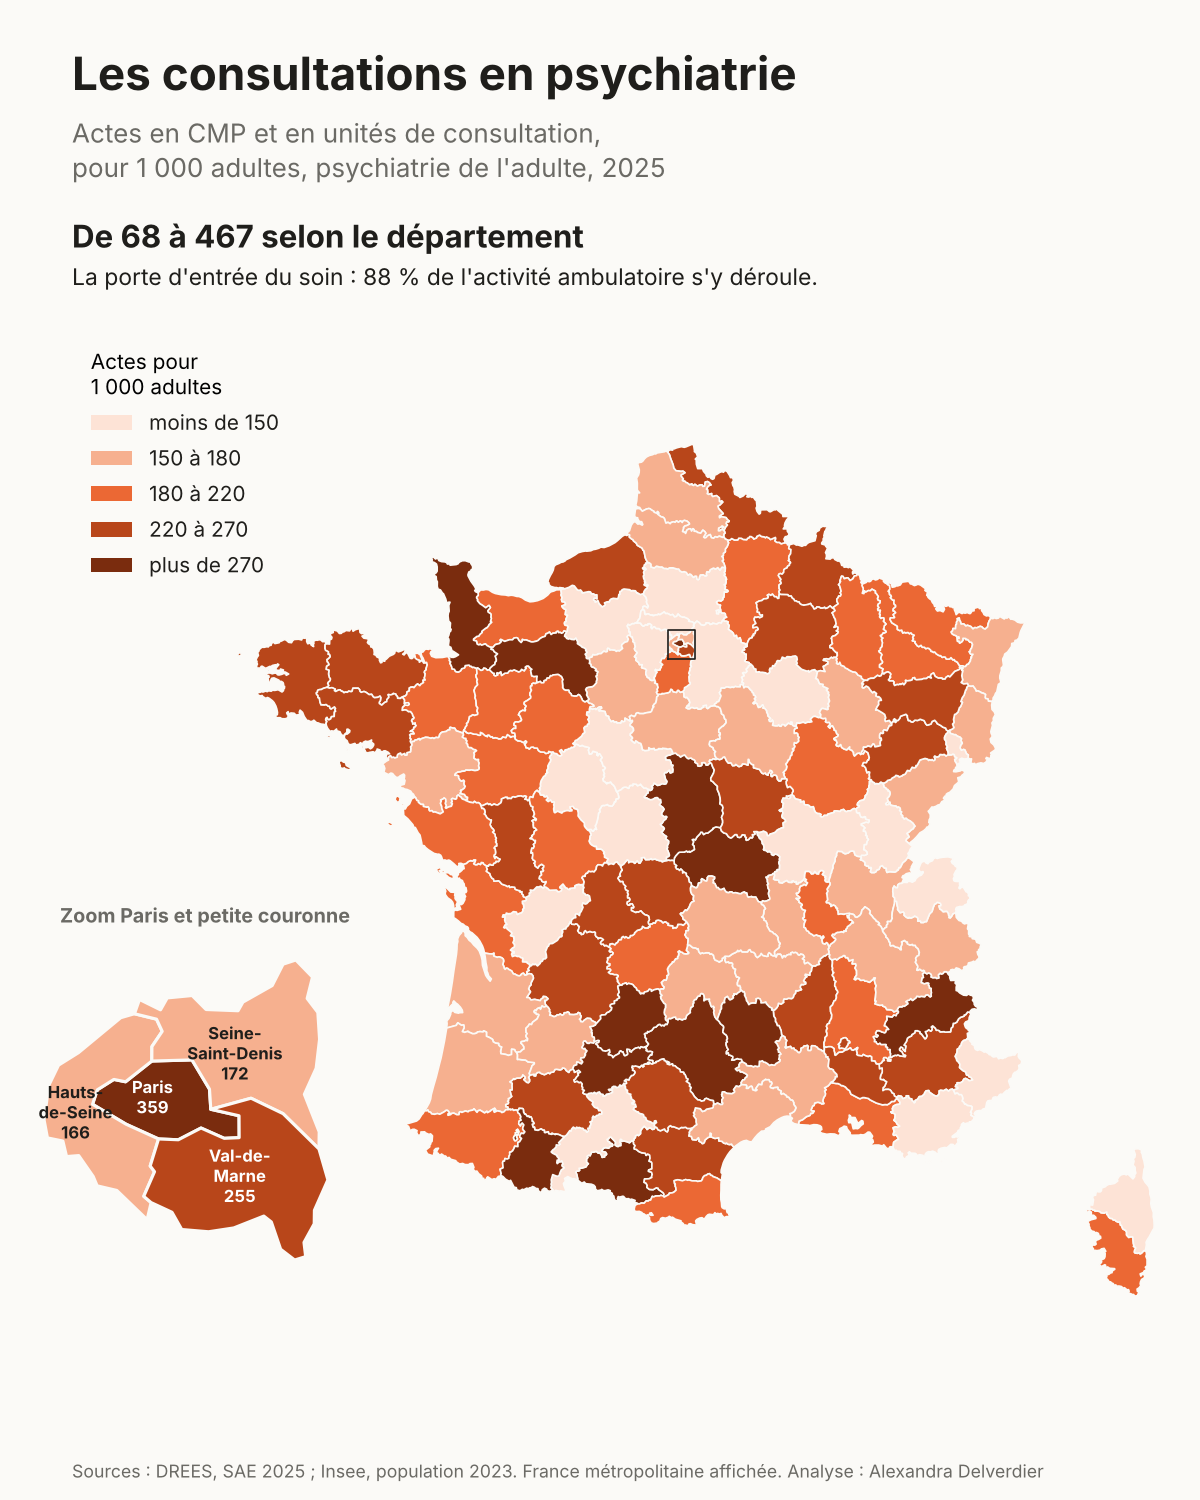
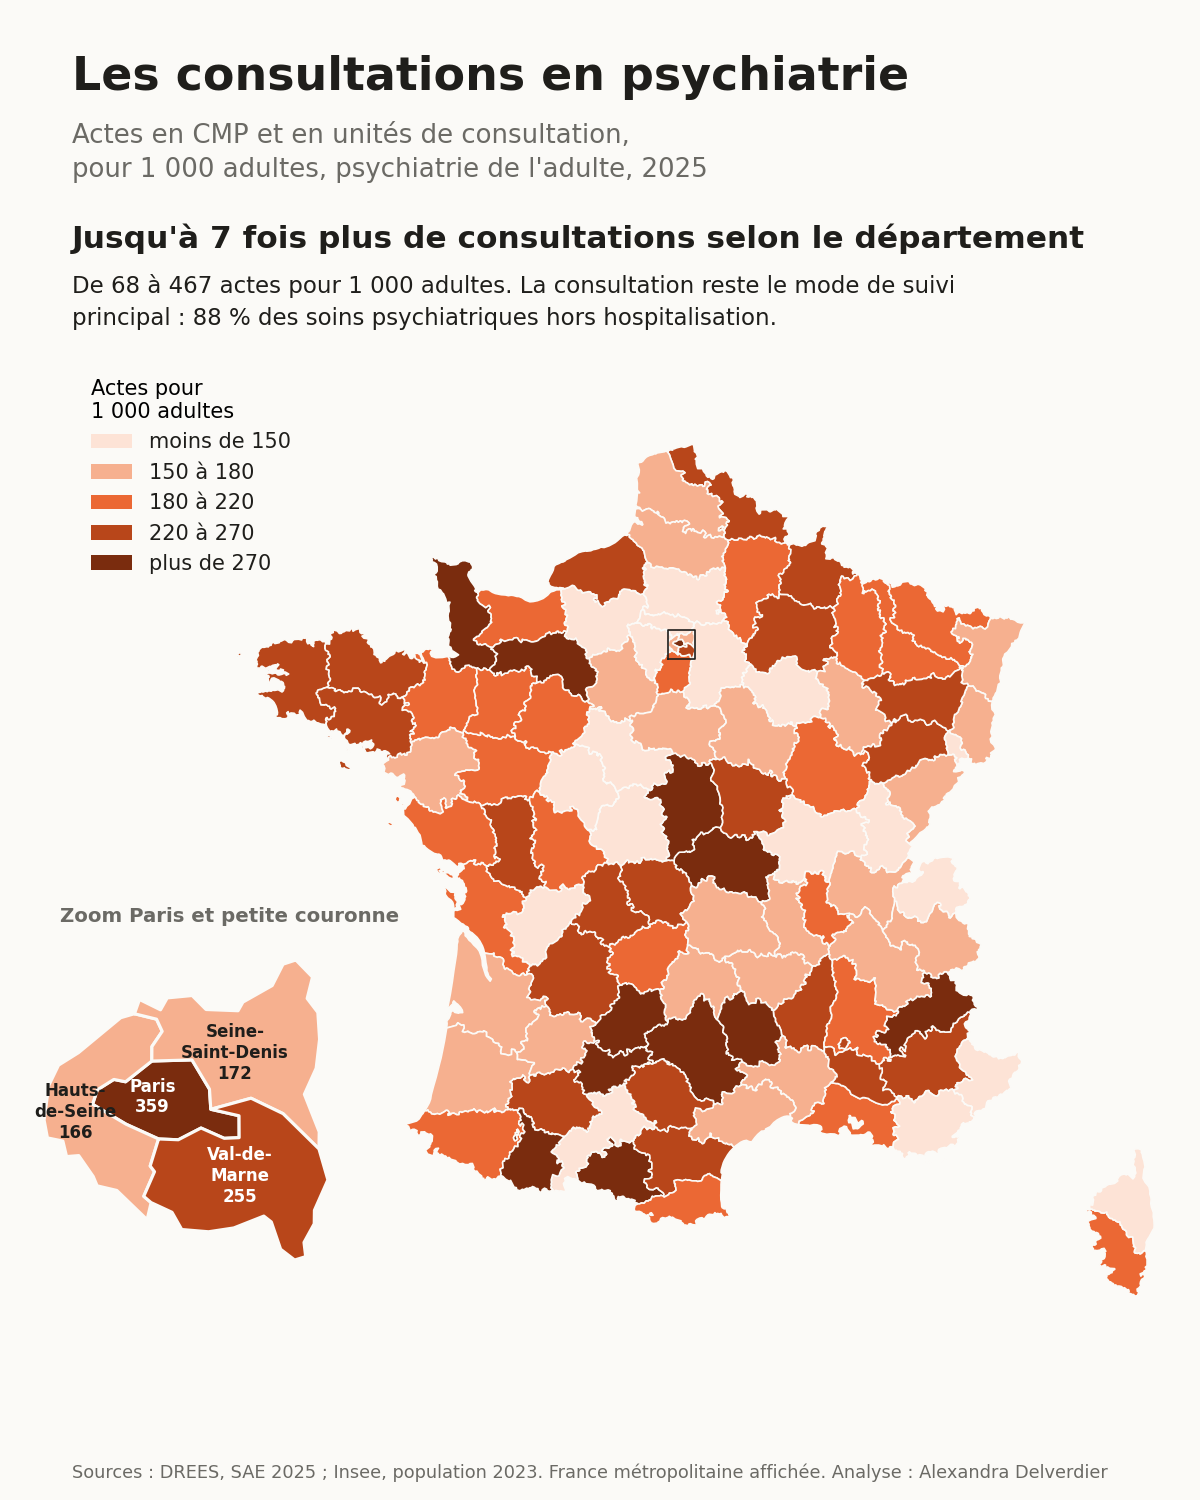
Recadrage de l'analyse : tests statistiques et code des cartes

diff --git a/analysis/cartes.py b/analysis/cartes.py
@@ -1,0 +1,105 @@
+"""Cartes de la psychiatrie hors les murs : consultations et suivi à domicile, par département."""
+import json
+import urllib.request
+from pathlib import Path
+
+import geopandas as gpd
+import matplotlib.pyplot as plt
+import pandas as pd
+from matplotlib.patches import Patch
+
+from data import load_mart, parser
+
+GEOJSON_URL = "https://raw.githubusercontent.com/gregoiredavid/france-geojson/master/departements-version-simplifiee.geojson"
+ROOT = Path(__file__).resolve().parent
+VISUELS = ROOT.parent / "visuels"
+INK, MUTED, BG = "#1f1e1b", "#6b6a65", "#fbfaf7"
+PETITE_COURONNE = {"75": "Paris", "92": "Hauts-\nde-Seine", "93": "Seine-\nSaint-Denis", "94": "Val-de-\nMarne"}
+
+CARTES = {
+    "consultations": dict(
+        colonne="actes_consultation_pour_1000",
+        fichier="carte_consultations.png",
+        bins=[0, 150, 180, 220, 270, 10_000],
+        labels=["moins de 150", "150 à 180", "180 à 220", "220 à 270", "plus de 270"],
+        ramp=["#fde3d6", "#f6b08f", "#eb6834", "#b8461a", "#7a2c0e"],
+        titre="Les consultations en psychiatrie",
+        sous_titre=["Actes en CMP et en unités de consultation,", "pour 1 000 adultes, psychiatrie de l'adulte, 2025"],
+        accroche="Jusqu'à 7 fois plus de consultations selon le département",
+        texte=["De 68 à 467 actes pour 1 000 adultes. La consultation reste le mode de suivi",
+               "principal : 88 % des soins psychiatriques hors hospitalisation."],
+    ),
+    "domicile": dict(
+        colonne="actes_domicile_pour_1000",
+        fichier="carte_soins_domicile.png",
+        bins=[0, 15, 25, 40, 60, 10_000],
+        labels=["moins de 15", "15 à 25", "25 à 40", "40 à 60", "plus de 60"],
+        ramp=["#cde2fb", "#86b6ef", "#3987e5", "#1c5cab", "#0d366b"],
+        titre="Le suivi psychiatrique à domicile",
+        sous_titre=["Actes des équipes de psychiatrie au domicile ou en lieu de vie,",
+                    "pour 1 000 adultes, psychiatrie de l'adulte, 2025"],
+        accroche="De 1 à 109 selon le département",
+        texte=["En France, seulement 12 % de l'activité ambulatoire se fait chez le patient."],
+    ),
+}
+
+
+def fond_de_carte():
+    cache = ROOT / ".cache" / "departements.geojson"
+    if not cache.exists():
+        cache.parent.mkdir(exist_ok=True)
+        urllib.request.urlretrieve(GEOJSON_URL, cache)
+    return gpd.read_file(cache)
+
+
+def dessiner(geo, mart, cfg):
+    g = geo.merge(mart[["code_insee", cfg["colonne"]]], left_on="code", right_on="code_insee", how="left").to_crs(2154)
+    g["v"] = g[cfg["colonne"]]
+    g["cls"] = pd.cut(g.v, cfg["bins"], labels=False, right=False)
+    g["col"] = g.cls.map(lambda c: cfg["ramp"][int(c)] if pd.notna(c) else "#e4e2dd")
+
+    fig = plt.figure(figsize=(8, 10), dpi=150, facecolor=BG)
+    ax = fig.add_axes([0.16, 0.06, 0.84, 0.72]); ax.set_axis_off()
+    g.plot(ax=ax, color=g.col, edgecolor=BG, linewidth=0.8)
+
+    fig.text(0.06, 0.94, cfg["titre"], fontsize=22, weight="bold", color=INK)
+    for k, ligne in enumerate(cfg["sous_titre"]):
+        fig.text(0.06, 0.905 - 0.023 * k, ligne, fontsize=12.5, color=MUTED)
+    fig.text(0.06, 0.835, cfg["accroche"], fontsize=15, weight="bold", color=INK)
+    for k, ligne in enumerate(cfg["texte"]):
+        fig.text(0.06, 0.805 - 0.022 * k, ligne, fontsize=11, color=INK)
+
+    legende = [Patch(facecolor=c, edgecolor="none", label=l) for c, l in zip(cfg["ramp"], cfg["labels"])]
+    ax.legend(handles=legende, loc="upper left", frameon=False, fontsize=10, labelcolor=INK,
+              title="Actes pour\n1 000 adultes", title_fontsize=10, alignment="left",
+              bbox_to_anchor=(0.06, 0.76), bbox_transform=fig.transFigure)
+
+    # zoom Paris et petite couronne, trop petits à l'échelle nationale
+    pc = g[g.code.isin(PETITE_COURONNE)]
+    ax2 = fig.add_axes([0.02, 0.15, 0.27, 0.22]); ax2.set_axis_off()
+    pc.plot(ax=ax2, color=pc.col, edgecolor=BG, linewidth=1.5)
+    for _, r in pc.iterrows():
+        p = r.geometry.representative_point()
+        ax2.annotate(f"{PETITE_COURONNE[r.code]}\n{r.v:.0f}", (p.x, p.y), ha="center", va="center", fontsize=8,
+                     color="white" if r.cls >= 3 else INK, weight="bold")
+    fig.text(0.05, 0.385, "Zoom Paris et petite couronne", fontsize=9.5, color=MUTED, weight="bold")
+    x0, y0, x1, y1 = pc.total_bounds
+    ax.plot([x0, x1, x1, x0, x0], [y0, y0, y1, y1, y0], color=INK, lw=0.8)
+
+    fig.text(0.06, 0.015, "Sources : DREES, SAE 2025 ; Insee, population 2023. France métropolitaine affichée. "
+             "Analyse : Alexandra Delverdier", fontsize=8.5, color=MUTED)
+    VISUELS.mkdir(exist_ok=True)
+    fig.savefig(VISUELS / cfg["fichier"], facecolor=BG)
+    plt.close(fig)
+    print("écrit :", VISUELS / cfg["fichier"])
+
+
+def main():
+    args = parser(__doc__).parse_args()
+    mart, geo = load_mart(args), fond_de_carte()
+    for cfg in CARTES.values():
+        dessiner(geo, mart, cfg)
+
+
+if __name__ == "__main__":
+    main()

diff --git a/analysis/correlations.py b/analysis/correlations.py
@@ -1,0 +1,49 @@
+"""Force et fiabilité des liens entre offre ambulatoire, lits et modes légaux de soins.
+
+Corrélation de Spearman (rangs) : robuste aux valeurs extrêmes et aux relations non linéaires,
+adaptée à 96 départements très hétérogènes.
+"""
+from pathlib import Path
+
+import pandas as pd
+from scipy.stats import spearmanr
+
+from data import IDF, load_mart, metropole, parser
+
+HYPOTHESES = [
+    ("actes_domicile_pour_1000", "taux_occupation", "Domicile et occupation des lits"),
+    ("actes_domicile_pour_1000", "part_journees_sans_consentement", "Domicile et part de soins sans consentement"),
+    ("actes_consultation_pour_1000", "taux_occupation", "Consultations et occupation des lits"),
+    ("lits_pour_100k", "part_journees_sans_consentement", "Lits et part de soins sans consentement"),
+    ("lits_pour_100k", "journees_sans_consentement_pour_1000", "Lits et soins sans consentement (volume)"),
+    ("lits_pour_100k", "journees_soins_libres_pour_1000", "Lits et soins libres (volume)"),
+]
+
+
+def tester(df, x, y):
+    d = df[[x, y]].dropna()
+    rho, p = spearmanr(d[x], d[y])
+    return rho, p, len(d)
+
+
+def main():
+    args = parser(__doc__).parse_args()
+    df = metropole(load_mart(args))
+    rows = []
+    for x, y, question in HYPOTHESES:
+        rho, p, n = tester(df, x, y)
+        rho_hors_idf, p_hors_idf, _ = tester(df[~df.code_insee.isin(IDF)], x, y)
+        rows.append({
+            "question": question, "x": x, "y": y, "n": n,
+            "rho": round(rho, 2), "p_value": round(p, 4), "fiable_5pct": p < 0.05,
+            "rho_hors_idf": round(rho_hors_idf, 2), "p_hors_idf": round(p_hors_idf, 4),
+        })
+    res = pd.DataFrame(rows)
+    out = Path(__file__).parent / "resultats"
+    out.mkdir(exist_ok=True)
+    res.to_csv(out / "correlations.csv", index=False)
+    print(res[["question", "n", "rho", "p_value", "fiable_5pct", "rho_hors_idf"]].to_string(index=False))
+
+
+if __name__ == "__main__":
+    main()

diff --git a/analysis/data.py b/analysis/data.py
@@ -1,0 +1,27 @@
+"""Lecture du mart dbt, depuis BigQuery (par défaut) ou depuis une base DuckDB locale."""
+import argparse
+
+MART = "mart_psy_ambulatoire__departements"
+IDF = ["75", "77", "78", "91", "92", "93", "94", "95"]
+
+
+def parser(description):
+    p = argparse.ArgumentParser(description=description)
+    p.add_argument("--project", default="delverdier-alexandra-wagon")
+    p.add_argument("--dataset", default="dbt_sante_mentale_cmp")
+    p.add_argument("--duckdb", help="chemin d'une base DuckDB locale, à la place de BigQuery")
+    return p
+
+
+def load_mart(args):
+    if args.duckdb:
+        import duckdb
+        return duckdb.connect(args.duckdb, read_only=True).execute(f"select * from main.{MART}").df()
+    from google.cloud import bigquery
+    client = bigquery.Client(project=args.project)
+    return client.query(f"select * from `{args.project}.{args.dataset}.{MART}`").to_dataframe()
+
+
+def metropole(df):
+    """96 départements de métropole (codes Insee à 2 caractères)."""
+    return df[df["code_insee"].str.len() == 2].copy()

diff --git a/README.md b/README.md
@@ -2,7 +2,7 @@
 
 Infirmière en psychiatrie, en centre hospitalier, j'ai vu des lits rester occupés faute de relais à la sortie, et des patients revenir quelques semaines plus tard parce que le suivi extérieur n'avait pas pu se mettre en place. Ce projet confronte ce constat de terrain aux données nationales.
 
-**Question** : les départements qui suivent davantage leurs patients en ambulatoire et à domicile ont-ils des lits de psychiatrie moins saturés et moins recours aux soins sans consentement ?
+**Question** : comment la psychiatrie soigne-t-elle en dehors des murs de l'hôpital, et les départements qui suivent davantage leurs patients en ambulatoire et à domicile ont-ils des lits moins saturés ?
 
 ## Résultats (psychiatrie de l'adulte, 2025)
 
@@ -11,30 +11,42 @@ Infirmière en psychiatrie, en centre hospitalier, j'ai vu des lits rester occup
 ![Consultations en CMP et en unités de consultation pour 1 000 adultes](visuels/carte_consultations.png)
 
 - 88 % de l'activité ambulatoire passe par les CMP et les unités de consultation
-- De 68 à 467 actes pour 1 000 adultes selon le département
-- Lien faible avec la saturation des lits : 86,3 % d'occupation dans le quart des départements qui consultent le moins, 82,5 % dans celui qui consulte le plus
+- De 68 à 467 actes pour 1 000 adultes selon le département, soit un écart d'environ 7 fois
 
-### 2. Le suivi à domicile manque
+### 2. Le suivi à domicile est le maillon le plus faible
 
 ![Actes des équipes de psychiatrie au domicile pour 1 000 adultes](visuels/carte_soins_domicile.png)
 
 - Seulement 12 % de l'activité ambulatoire se fait au domicile des patients
 - De 1 à 109 actes pour 1 000 adultes selon le département
-- Paris consulte beaucoup (359 actes pour 1 000 adultes) mais va peu à domicile (25)
+- Consulter beaucoup ne veut pas dire aller chez les patients : Paris réalise 359 actes de consultation pour 1 000 adultes, mais 25 à domicile
 
-### 3. C'est le domicile qui va avec des lits moins saturés
+### 3. L'hypothèse de départ n'est pas confirmée à l'échelle du département
 
-| Départements classés par actes à domicile pour 1 000 adultes | Taux d'occupation des lits | Journées en soins sans consentement |
-|---|---|---|
-| Quart le plus faible | 87,2 % | 22,1 % |
-| Quart le plus élevé | 80,8 % | 18,7 % |
+Je m'attendais à ce que les départements qui suivent davantage leurs patients à domicile aient des lits moins saturés. Les données ne le montrent pas de façon fiable :
 
-### Autres constats
+| Lien testé (96 départements de métropole) | Corrélation de Spearman | p-value | Fiable au seuil de 5 % |
+|---|---|---|---|
+| Domicile et occupation des lits | -0,16 | 0,11 | Non |
+| Domicile et part de soins sans consentement | -0,04 | 0,69 | Non |
+| Consultations et occupation des lits | -0,11 | 0,31 | Non |
 
-- Les psychologues en psychiatrie (établissements de santé) varient de 2 à 17 ETP pour 100 000 adultes
-- 8 départements dépassent 95 % d'occupation de leurs lits à temps plein
+Ça ne contredit pas l'expérience de terrain : la maille départementale est trop grossière. Pour mesurer l'effet du suivi à la sortie, il faudrait suivre les parcours des patients, et ces données ne sont pas ouvertes.
 
-Ce sont des corrélations entre territoires, pas une relation de cause à effet.
+### 4. Quand les lits manquent, ce sont les soins libres qui reculent
+
+| Départements classés par lits pour 100 000 adultes | Lits | Journées sans consentement pour 1 000 adultes | Journées en soins libres pour 1 000 adultes | Part sans consentement |
+|---|---|---|---|---|
+| Quart avec le moins de lits | 63 | 58 | 165 | 26 % |
+| Quart avec le plus de lits | 130 | 68 | 364 | 16 % |
+
+- Les journées en soins libres suivent très fortement le nombre de lits (corrélation 0,83, p < 0,001)
+- Les journées sans consentement varient peu (corrélation 0,21, p = 0,04)
+- La part de contrainte est donc plus élevée là où les lits manquent (-0,45, p < 0,001), mais ce n'est pas la contrainte qui augmente : c'est l'accès à l'hospitalisation libre qui se réduit
+
+Les patients qui pourraient être hospitalisés librement mais ne trouvent pas de lit sont précisément ceux pour qui le suivi en consultation et à domicile compte le plus.
+
+Les deux liens forts (soins libres et part de contrainte) tiennent quand on retire l'Île-de-France ; le lien faible sur le volume de soins sans consentement, lui, n'est plus significatif (détail dans `analysis/resultats/correlations.csv`). Ce sont des corrélations entre territoires, pas des relations de cause à effet.
 
 ## Architecture
 
@@ -46,6 +58,8 @@ sources (SAE 2025, DREES) + seeds (Insee 2023)
  intermediate     psychiatrie de l'adulte par établissement, population adulte par département
         │
      marts        mart_psy_ambulatoire__departements
+        │
+   analysis       corrélations de Spearman et cartes (Python, lecture du mart dans BigQuery)
 ```
 
 | Modèle | Grain |
@@ -67,12 +81,17 @@ sources (SAE 2025, DREES) + seeds (Insee 2023)
 - **CMP et unités de consultation regroupés** : certains hôpitaux, surtout les CHU, déclarent une grande part de leur activité en unités de consultation plutôt qu'en CMP (46 % dans l'Hérault). Les séparer créerait un artefact de déclaration.
 - **Données brutes chargées en texte**, typées dans le staging : les codes FINESS commencent par un zéro qui disparaîtrait avec une détection automatique des types.
 
+- **Corrélation de Spearman** : basée sur les rangs, elle résiste aux valeurs extrêmes et ne suppose pas de relation linéaire entre des départements très hétérogènes.
+- **Volumes et parts** : une part de soins sans consentement peut varier parce que les soins libres changent. Les deux sont calculés pour ne pas confondre les effets.
+
 ## Limites
 
 - La SAE ne sépare pas le personnel du CMP de celui de l'hospitalisation : les ETP couvrent toute la psychiatrie de l'établissement.
 - Il n'existe pas de données nationales ouvertes sur les délais d'attente en CMP.
 - Les patients peuvent être soignés hors de leur département, ce qui influence les ratios, surtout en Île-de-France.
 - Les modes légaux de soins (bordereau PSY2) ne sont pas ventilés entre adultes et enfants.
+- Quelques valeurs sont à interpréter avec prudence, par exemple le Territoire de Belfort, qui déclare 0,1 % de soins sans consentement.
+- La population de référence est celle de 2023, dernière estimation par classe d'âge disponible.
 
 ## Sources
 
@@ -81,4 +100,4 @@ sources (SAE 2025, DREES) + seeds (Insee 2023)
 
 ## Stack
 
-BigQuery · dbt Core · SQL
+BigQuery · dbt Core · SQL · Python (pandas, SciPy, GeoPandas, Matplotlib)
